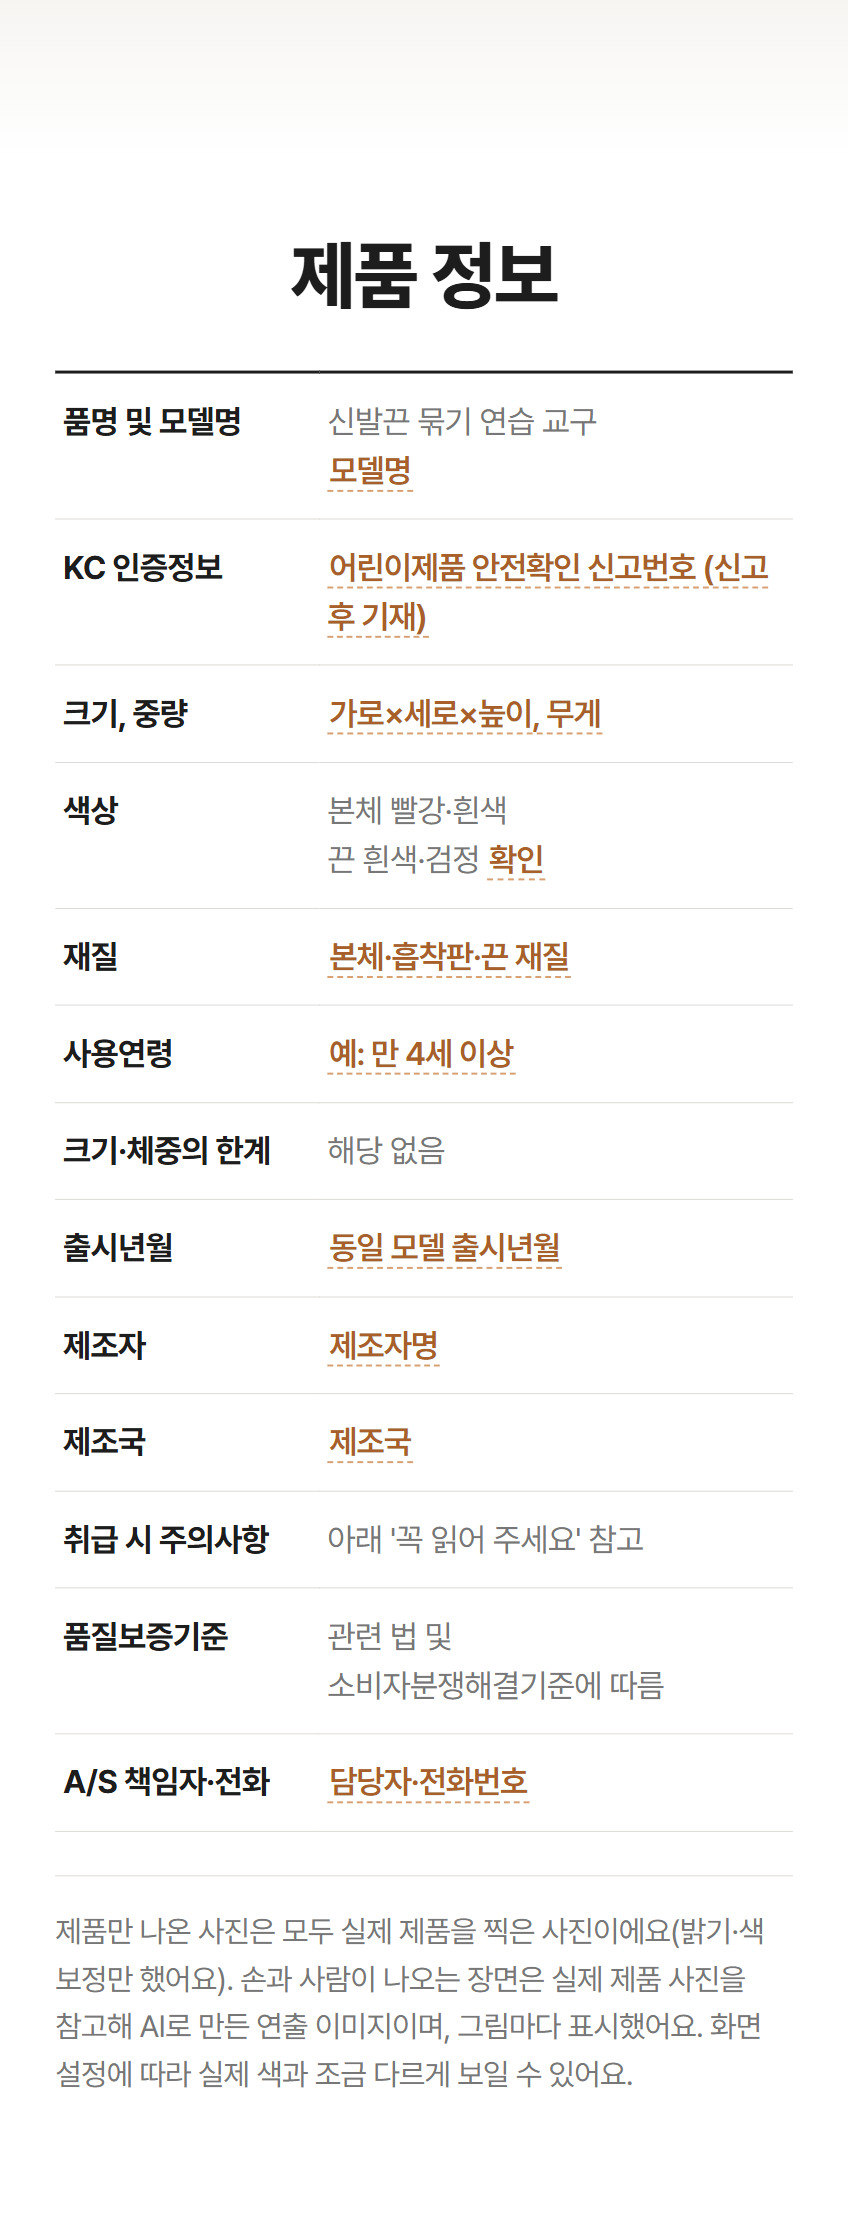
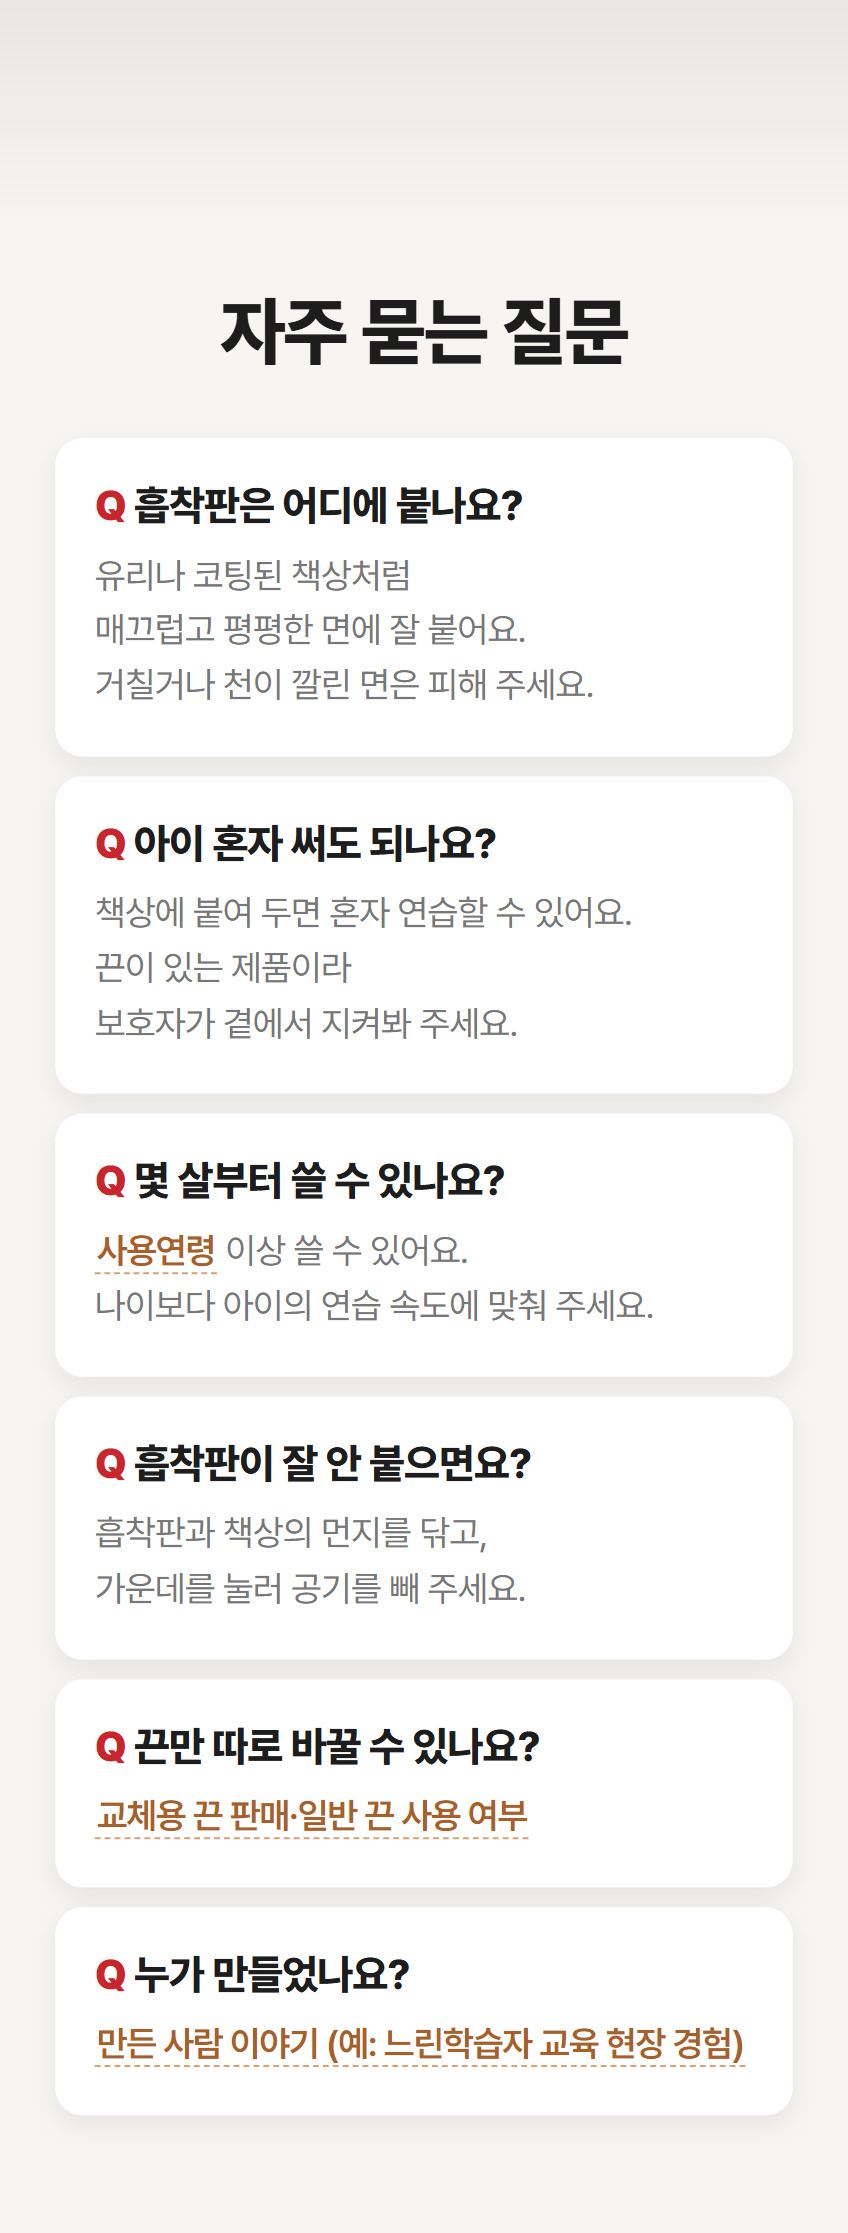
시안 미리보기 갱신 20261110-175149

Changed region(s): [[0.0613, 0.0933, 0.9198, 0.9644]]

diff --git a/a/index.html b/a/index.html
@@ -161,7 +161,7 @@
 <div class="toast" id="toast" role="status"></div>
 
 <script>
-  const DATA = {"shoe": {"short": "신발끈 교구", "name": "신발끈 묶기 연습 교구", "store": "나인어클락", "price": "가격 미정", "rows": [["배송", "택배배송 · 배송비 미정"]], "gallery": ["img/shoe/thumb1.jpg", "img/shoe/thumb2.jpg", "img/shoe/thumb3.jpg", "img/shoe/thumb4.jpg"], "spec": "가로 848px · 이미지 14장 (움직이는 그림 3개) · 세로 28,274px", "files": [{"src": "img/shoe/01.gif", "w": 848, "h": 1486}, {"src": "img/shoe/02.jpg", "w": 848, "h": 2784}, {"src": "img/shoe/03.jpg", "w": 848, "h": 2670}, {"src": "img/shoe/04.gif", "w": 848, "h": 613}, {"src": "img/shoe/05.jpg", "w": 848, "h": 2795}, {"src": "img/shoe/06.jpg", "w": 848, "h": 1738}, {"src": "img/shoe/07.jpg", "w": 848, "h": 1763}, {"src": "img/shoe/08.jpg", "w": 848, "h": 1519}, {"src": "img/shoe/09.jpg", "w": 848, "h": 2971}, {"src": "img/shoe/10.gif", "w": 848, "h": 1074}, {"src": "img/shoe/11.jpg", "w": 848, "h": 2974}, {"src": "img/shoe/12.jpg", "w": 848, "h": 2233}, {"src": "img/shoe/13.jpg", "w": 848, "h": 2218}, {"src": "img/shoe/14.jpg", "w": 848, "h": 1436}]}, "app": {"short": "행복한 마을", "name": "행복한 마을", "store": "나인어클락", "price": "가격 미정", "rows": [["배송", "배송 없음 · 구매 후 이용 링크 발송"]], "gallery": ["img/app/thumb1.jpg", "img/app/thumb2.jpg", "img/app/thumb3.jpg"], "spec": "가로 848px · 이미지 18장 (움직이는 그림 3개) · 세로 33,400px", "files": [{"src": "img/app/01.jpg", "w": 848, "h": 730}, {"src": "img/app/02.gif", "w": 848, "h": 1658}, {"src": "img/app/03.jpg", "w": 848, "h": 2096}, {"src": "img/app/04.jpg", "w": 848, "h": 1446}, {"src": "img/app/05.jpg", "w": 848, "h": 1581}, {"src": "img/app/06.gif", "w": 848, "h": 1533}, {"src": "img/app/07.jpg", "w": 848, "h": 2751}, {"src": "img/app/08.jpg", "w": 848, "h": 2050}, {"src": "img/app/09.gif", "w": 848, "h": 1359}, {"src": "img/app/10.jpg", "w": 848, "h": 1776}, {"src": "img/app/11.jpg", "w": 848, "h": 2325}, {"src": "img/app/12.jpg", "w": 848, "h": 1128}, {"src": "img/app/13.jpg", "w": 848, "h": 2152}, {"src": "img/app/14.jpg", "w": 848, "h": 1994}, {"src": "img/app/15.jpg", "w": 848, "h": 2065}, {"src": "img/app/16.jpg", "w": 848, "h": 2704}, {"src": "img/app/17.jpg", "w": 848, "h": 2543}, {"src": "img/app/18.jpg", "w": 848, "h": 1509}]}};
+  const DATA = {"shoe": {"short": "신발끈 교구", "name": "신발끈 묶기 연습 교구", "store": "나인어클락", "price": "가격 미정", "rows": [["배송", "택배배송 · 배송비 미정"], ["옵션", "1개입 · 2개입"]], "gallery": ["img/shoe/thumb1.jpg", "img/shoe/thumb2.jpg", "img/shoe/thumb3.jpg", "img/shoe/thumb4.jpg"], "spec": "가로 848px · 이미지 15장 (움직이는 그림 3개) · 세로 28,569px", "files": [{"src": "img/shoe/01.gif", "w": 848, "h": 1486}, {"src": "img/shoe/02.jpg", "w": 848, "h": 2784}, {"src": "img/shoe/03.jpg", "w": 848, "h": 2670}, {"src": "img/shoe/04.gif", "w": 848, "h": 613}, {"src": "img/shoe/05.jpg", "w": 848, "h": 2795}, {"src": "img/shoe/06.jpg", "w": 848, "h": 1738}, {"src": "img/shoe/07.jpg", "w": 848, "h": 1763}, {"src": "img/shoe/08.jpg", "w": 848, "h": 1519}, {"src": "img/shoe/09.jpg", "w": 848, "h": 2971}, {"src": "img/shoe/10.gif", "w": 848, "h": 1074}, {"src": "img/shoe/11.jpg", "w": 848, "h": 2002}, {"src": "img/shoe/12.jpg", "w": 848, "h": 1267}, {"src": "img/shoe/13.jpg", "w": 848, "h": 2233}, {"src": "img/shoe/14.jpg", "w": 848, "h": 2218}, {"src": "img/shoe/15.jpg", "w": 848, "h": 1436}]}, "app": {"short": "행복한 마을", "name": "행복한 마을", "store": "나인어클락", "price": "가격 미정", "rows": [["배송", "배송 없음 · 구매 후 이용 링크 발송"]], "gallery": ["img/app/thumb1.jpg", "img/app/thumb2.jpg", "img/app/thumb3.jpg"], "spec": "가로 848px · 이미지 18장 (움직이는 그림 3개) · 세로 33,400px", "files": [{"src": "img/app/01.jpg", "w": 848, "h": 730}, {"src": "img/app/02.gif", "w": 848, "h": 1658}, {"src": "img/app/03.jpg", "w": 848, "h": 2096}, {"src": "img/app/04.jpg", "w": 848, "h": 1446}, {"src": "img/app/05.jpg", "w": 848, "h": 1581}, {"src": "img/app/06.gif", "w": 848, "h": 1533}, {"src": "img/app/07.jpg", "w": 848, "h": 2751}, {"src": "img/app/08.jpg", "w": 848, "h": 2050}, {"src": "img/app/09.gif", "w": 848, "h": 1359}, {"src": "img/app/10.jpg", "w": 848, "h": 1776}, {"src": "img/app/11.jpg", "w": 848, "h": 2325}, {"src": "img/app/12.jpg", "w": 848, "h": 1128}, {"src": "img/app/13.jpg", "w": 848, "h": 2152}, {"src": "img/app/14.jpg", "w": 848, "h": 1994}, {"src": "img/app/15.jpg", "w": 848, "h": 2065}, {"src": "img/app/16.jpg", "w": 848, "h": 2704}, {"src": "img/app/17.jpg", "w": 848, "h": 2543}, {"src": "img/app/18.jpg", "w": 848, "h": 1509}]}};
   const VARIANT = {"cur": "a", "home": "../", "items": [{"k": "a", "label": "A안", "href": "../a/"}, {"k": "b", "label": "B안", "href": "../b/"}]};
   const KEYS = Object.keys(DATA);
   const col = document.getElementById("col");

diff --git a/b/index.html b/b/index.html
@@ -161,7 +161,7 @@
 <div class="toast" id="toast" role="status"></div>
 
 <script>
-  const DATA = {"shoe": {"short": "신발끈 교구", "name": "신발끈 묶기 연습 교구", "store": "나인어클락", "price": "가격 미정", "rows": [["배송", "택배배송 · 배송비 미정"]], "gallery": ["img/shoe/thumb1.jpg", "img/shoe/thumb2.jpg", "img/shoe/thumb3.jpg", "img/shoe/thumb4.jpg"], "spec": "가로 848px · 이미지 14장 (움직이는 그림 3개) · 세로 28,274px", "files": [{"src": "img/shoe/01.gif", "w": 848, "h": 1486}, {"src": "img/shoe/02.jpg", "w": 848, "h": 2784}, {"src": "img/shoe/03.jpg", "w": 848, "h": 2670}, {"src": "img/shoe/04.gif", "w": 848, "h": 613}, {"src": "img/shoe/05.jpg", "w": 848, "h": 2795}, {"src": "img/shoe/06.jpg", "w": 848, "h": 1738}, {"src": "img/shoe/07.jpg", "w": 848, "h": 1763}, {"src": "img/shoe/08.jpg", "w": 848, "h": 1519}, {"src": "img/shoe/09.jpg", "w": 848, "h": 2971}, {"src": "img/shoe/10.gif", "w": 848, "h": 1074}, {"src": "img/shoe/11.jpg", "w": 848, "h": 2974}, {"src": "img/shoe/12.jpg", "w": 848, "h": 2233}, {"src": "img/shoe/13.jpg", "w": 848, "h": 2218}, {"src": "img/shoe/14.jpg", "w": 848, "h": 1436}]}, "app": {"short": "행복한 마을", "name": "행복한 마을", "store": "나인어클락", "price": "가격 미정", "rows": [["배송", "배송 없음 · 구매 후 이용 링크 발송"]], "gallery": ["img/app/thumb1.jpg", "img/app/thumb2.jpg", "img/app/thumb3.jpg"], "spec": "가로 848px · 이미지 18장 (움직이는 그림 3개) · 세로 33,400px", "files": [{"src": "img/app/01.jpg", "w": 848, "h": 730}, {"src": "img/app/02.gif", "w": 848, "h": 1658}, {"src": "img/app/03.jpg", "w": 848, "h": 2096}, {"src": "img/app/04.jpg", "w": 848, "h": 1446}, {"src": "img/app/05.jpg", "w": 848, "h": 1581}, {"src": "img/app/06.gif", "w": 848, "h": 1533}, {"src": "img/app/07.jpg", "w": 848, "h": 2751}, {"src": "img/app/08.jpg", "w": 848, "h": 2050}, {"src": "img/app/09.gif", "w": 848, "h": 1359}, {"src": "img/app/10.jpg", "w": 848, "h": 1776}, {"src": "img/app/11.jpg", "w": 848, "h": 2325}, {"src": "img/app/12.jpg", "w": 848, "h": 1128}, {"src": "img/app/13.jpg", "w": 848, "h": 2152}, {"src": "img/app/14.jpg", "w": 848, "h": 1994}, {"src": "img/app/15.jpg", "w": 848, "h": 2065}, {"src": "img/app/16.jpg", "w": 848, "h": 2704}, {"src": "img/app/17.jpg", "w": 848, "h": 2543}, {"src": "img/app/18.jpg", "w": 848, "h": 1509}]}};
+  const DATA = {"shoe": {"short": "신발끈 교구", "name": "신발끈 묶기 연습 교구", "store": "나인어클락", "price": "가격 미정", "rows": [["배송", "택배배송 · 배송비 미정"], ["옵션", "1개입 · 2개입"]], "gallery": ["img/shoe/thumb1.jpg", "img/shoe/thumb2.jpg", "img/shoe/thumb3.jpg", "img/shoe/thumb4.jpg"], "spec": "가로 848px · 이미지 15장 (움직이는 그림 3개) · 세로 28,569px", "files": [{"src": "img/shoe/01.gif", "w": 848, "h": 1486}, {"src": "img/shoe/02.jpg", "w": 848, "h": 2784}, {"src": "img/shoe/03.jpg", "w": 848, "h": 2670}, {"src": "img/shoe/04.gif", "w": 848, "h": 613}, {"src": "img/shoe/05.jpg", "w": 848, "h": 2795}, {"src": "img/shoe/06.jpg", "w": 848, "h": 1738}, {"src": "img/shoe/07.jpg", "w": 848, "h": 1763}, {"src": "img/shoe/08.jpg", "w": 848, "h": 1519}, {"src": "img/shoe/09.jpg", "w": 848, "h": 2971}, {"src": "img/shoe/10.gif", "w": 848, "h": 1074}, {"src": "img/shoe/11.jpg", "w": 848, "h": 2002}, {"src": "img/shoe/12.jpg", "w": 848, "h": 1267}, {"src": "img/shoe/13.jpg", "w": 848, "h": 2233}, {"src": "img/shoe/14.jpg", "w": 848, "h": 2218}, {"src": "img/shoe/15.jpg", "w": 848, "h": 1436}]}, "app": {"short": "행복한 마을", "name": "행복한 마을", "store": "나인어클락", "price": "가격 미정", "rows": [["배송", "배송 없음 · 구매 후 이용 링크 발송"]], "gallery": ["img/app/thumb1.jpg", "img/app/thumb2.jpg", "img/app/thumb3.jpg"], "spec": "가로 848px · 이미지 18장 (움직이는 그림 3개) · 세로 33,400px", "files": [{"src": "img/app/01.jpg", "w": 848, "h": 730}, {"src": "img/app/02.gif", "w": 848, "h": 1658}, {"src": "img/app/03.jpg", "w": 848, "h": 2096}, {"src": "img/app/04.jpg", "w": 848, "h": 1446}, {"src": "img/app/05.jpg", "w": 848, "h": 1581}, {"src": "img/app/06.gif", "w": 848, "h": 1533}, {"src": "img/app/07.jpg", "w": 848, "h": 2751}, {"src": "img/app/08.jpg", "w": 848, "h": 2050}, {"src": "img/app/09.gif", "w": 848, "h": 1359}, {"src": "img/app/10.jpg", "w": 848, "h": 1776}, {"src": "img/app/11.jpg", "w": 848, "h": 2325}, {"src": "img/app/12.jpg", "w": 848, "h": 1128}, {"src": "img/app/13.jpg", "w": 848, "h": 2152}, {"src": "img/app/14.jpg", "w": 848, "h": 1994}, {"src": "img/app/15.jpg", "w": 848, "h": 2065}, {"src": "img/app/16.jpg", "w": 848, "h": 2704}, {"src": "img/app/17.jpg", "w": 848, "h": 2543}, {"src": "img/app/18.jpg", "w": 848, "h": 1509}]}};
   const VARIANT = {"cur": "b", "home": "../", "items": [{"k": "a", "label": "A안", "href": "../a/"}, {"k": "b", "label": "B안", "href": "../b/"}]};
   const KEYS = Object.keys(DATA);
   const col = document.getElementById("col");

diff --git a/index.html b/index.html
@@ -1,7 +1,7 @@
 <!doctype html>
 <html lang="ko">
 <head>
-<meta name="sian-build" content="20261110-165035">
+<meta name="sian-build" content="20261110-175149">
 <meta charset="utf-8">
 <meta name="viewport" content="width=device-width, initial-scale=1">
 <meta name="robots" content="noindex, nofollow">
